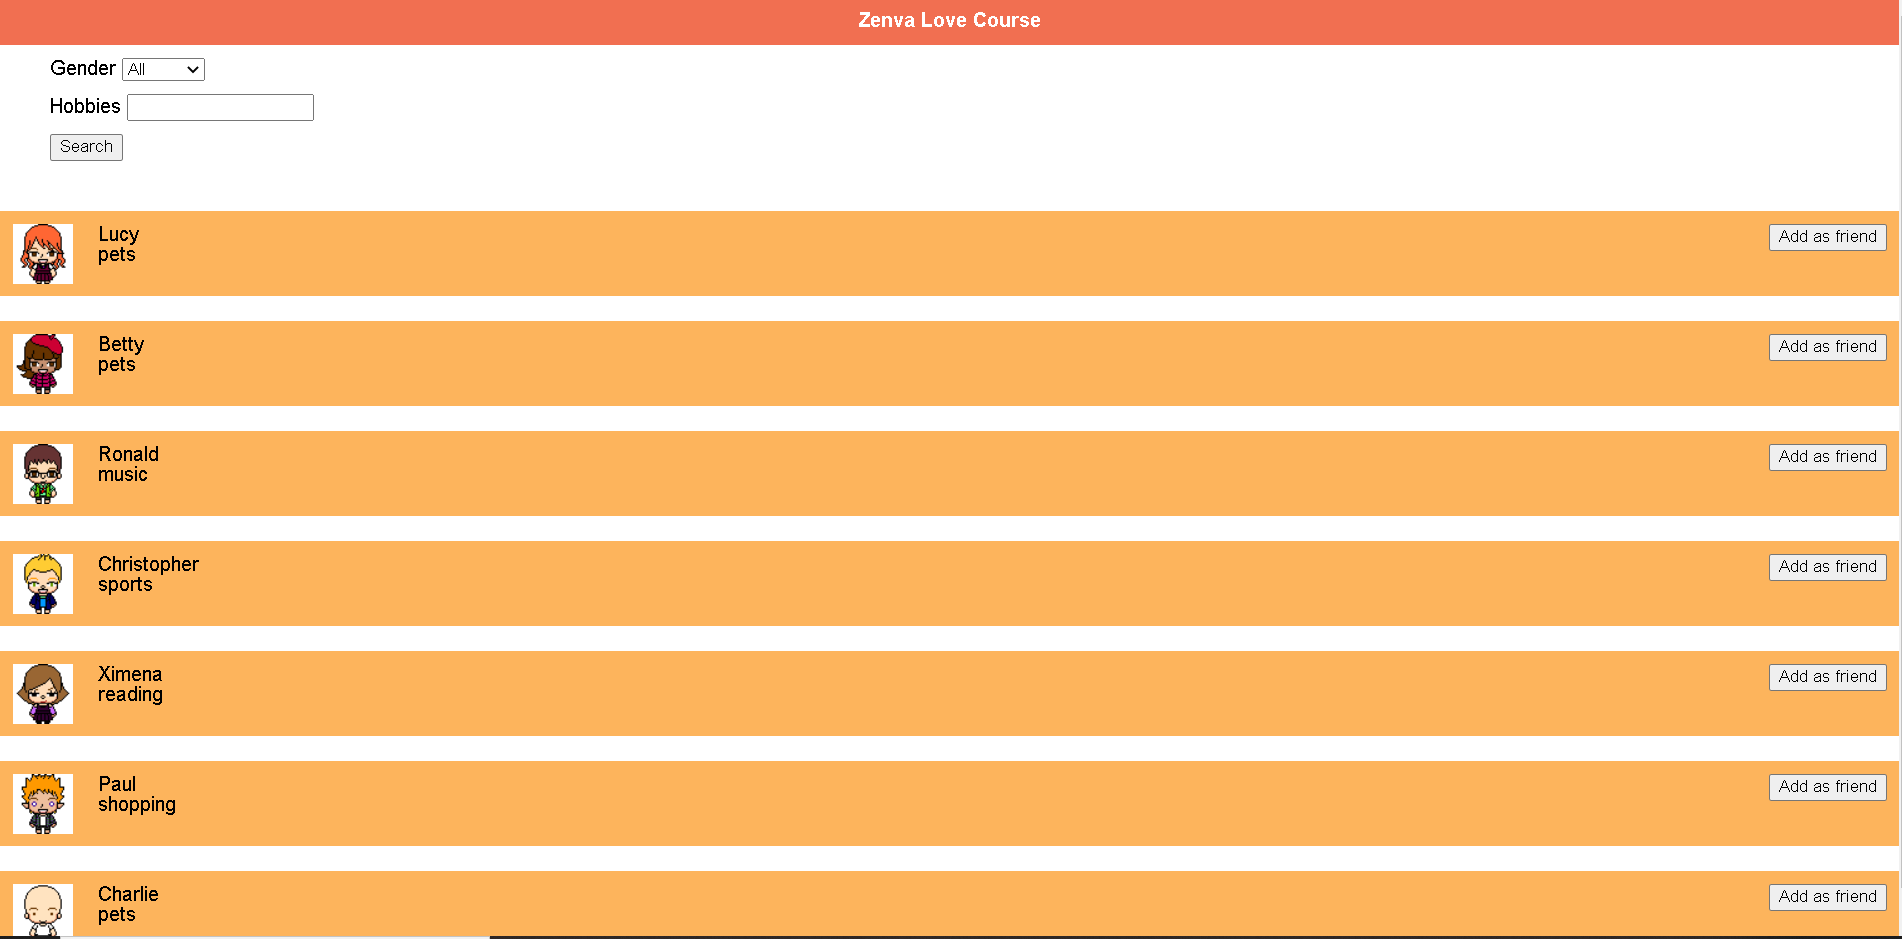
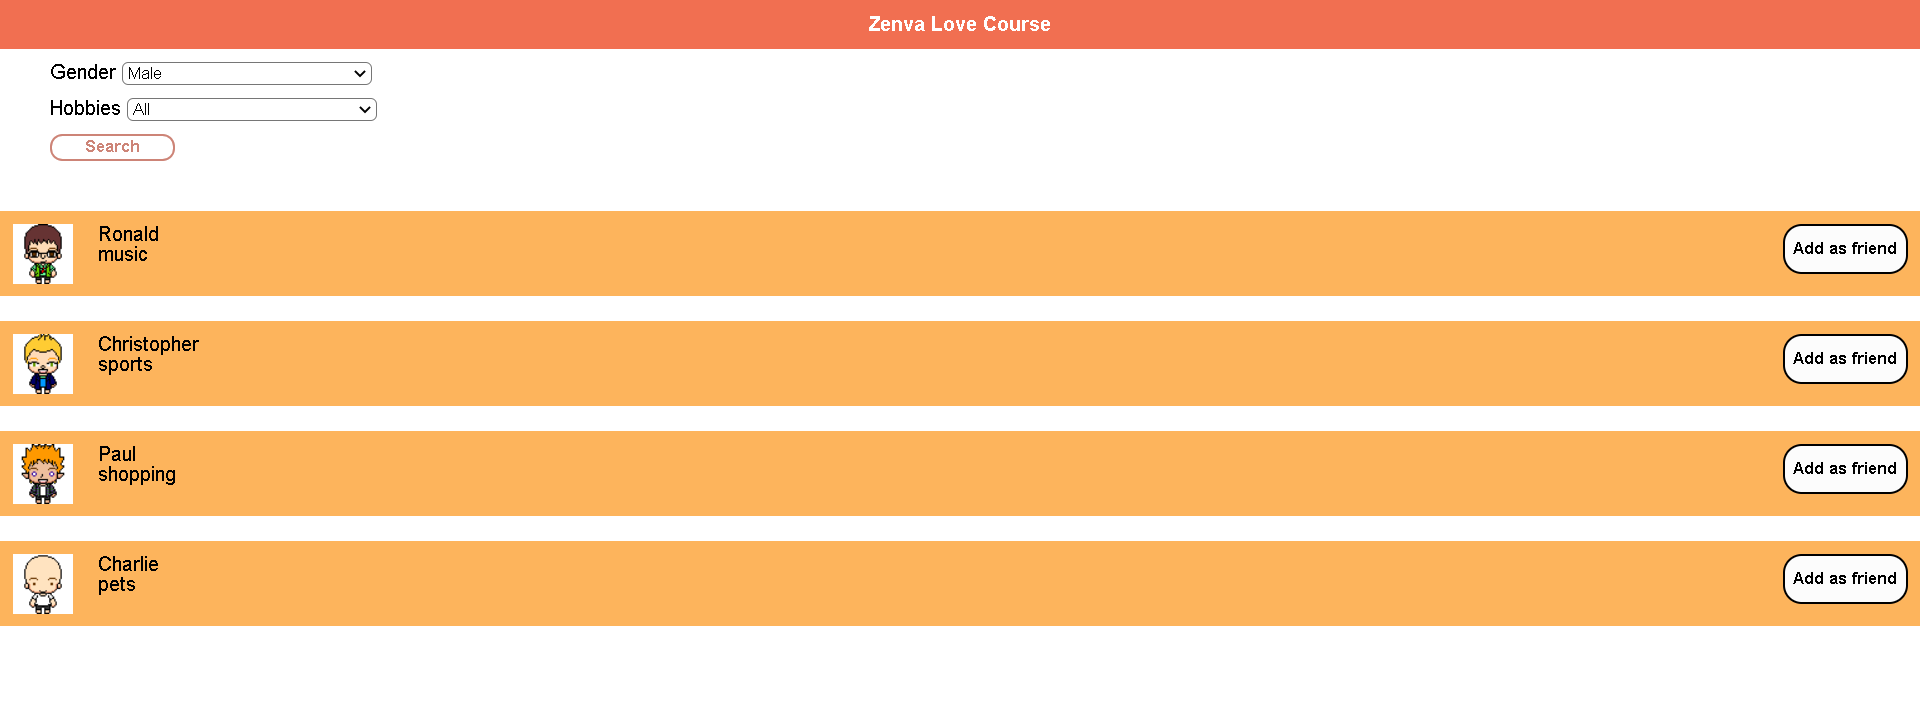
Inicializacion de busqueda y estetica

diff --git a/js/script.js b/js/script.js
@@ -48,17 +48,16 @@ var users = [
 window.addEventListener('load',function()
 {
     function search() {
-            results.innerHTML='hola';
-    
+   
             //get hobby
             var hobbyField = document.getElementById('hobby');
-            var hobby = hobbyField.value;
+            var selectHobby = hobbyField.selectedIndex;
+            var hobby = hobbyField.options[selectHobby].value;
     
             //get gender
             var genderField = document.getElementById('gender');
             var selected = genderField.selectedIndex;
             var gender = genderField.options[selected].value;
-    
     
             var resultsHTML = '';
             var numUsers = users.length;
@@ -71,16 +70,17 @@ window.addEventListener('load',function()
                         resultsHTML += '<div class="person-row">\
                         <img src="images/'+ users[i].avatar +'" />\
                         <div class="person-info">\
-                    <div>'+users[i].name+'</div>\
-                    <div>'+users[i].hobby+'</div></div>\
-                    <button>Add as friend</button></div>';
+                        <div>'+users[i].name+'</div>\
+                        <div>'+users[i].hobby+'</div></div>\
+                        <button>Add as friend</button></div>';
                     }
+                }
             }
-        }
             results.innerHTML = resultsHTML;
         };
         
     var results = document.getElementById('results');
     var searchBtn = document.getElementById('searchBtn');
     searchBtn.addEventListener('click', search);
+    search();
 });

diff --git a/index.html b/index.html
@@ -14,14 +14,21 @@
                 <div class="row">
                     <label>Gender</label>
                     <select id="gender">
+                        <option value="A">All</option>
                         <option value="F">Female</option>
                         <option value="M">Male</option>
-                        <option value="A">All</option>
                     </select>
                 </div>
                 <div class="row">
                     <label>Hobbies</label>
-                    <input type="text" id="hobby" />
+                    <select id="hobby">
+                        <option value="">All</option>
+                        <option value="shopping">shopping</option>
+                        <option value="reading">reading</option>
+                        <option value="sports">sports</option>
+                        <option value="music">music</option>
+                        <option value="pets">pets</option>
+                    </select>
                 </div>
                 <div class="row">
                     <button id="searchBtn">Search</button>

diff --git a/css/style.css b/css/style.css
@@ -1,3 +1,27 @@
+#gender{
+    width: 200px;
+    border-radius: 5px;
+}
+#hobby{
+    width: 200px;
+    border-radius: 5px;
+}
+#searchBtn{
+    width: 100px;
+    border-radius:10px;
+    background: white;
+    border: 2px solid  rgba(185, 83, 65, 0.719);
+    color: rgba(185, 83, 65, 0.719);
+    font-weight: bold;
+}
+#searchBtn:hover{
+    width: 100px;
+    border-radius:10px;
+    background: rgba(185, 83, 65, 0.719);
+    border: 2px solid;
+    color: white;
+    font-weight: bold;
+}
 body {
     font-family: helvetica;
 }
@@ -42,4 +66,21 @@ h1 {
 
 .person-row > button {
     float: right;
+    width: 100px;
+    height: 40px;
+    border-radius: 15px;
+    border: solid 2px black;
+    font-weight: bold;
+    background: rgb(252, 252, 252);
+}
+
+.person-row > button:hover {
+    float: right;
+    width: 100px;
+    height: 40px;
+    border-radius: 15px;
+    border: solid 2px white;
+    background: rgb(80, 79, 79);
+    color: white;
+    font-weight: bold;
 }
